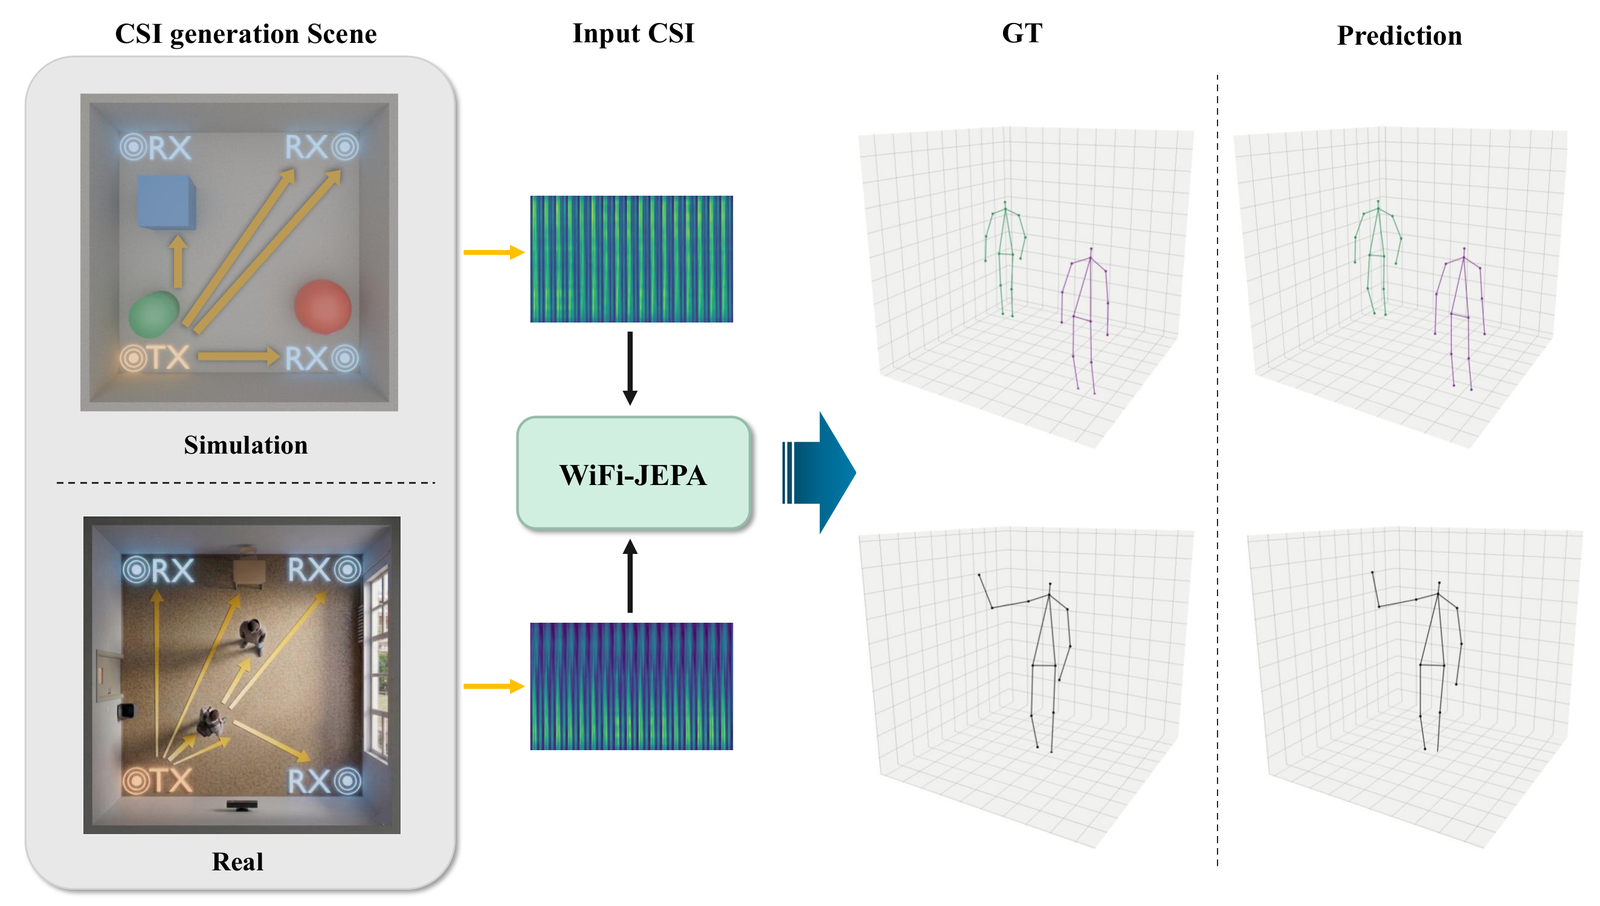
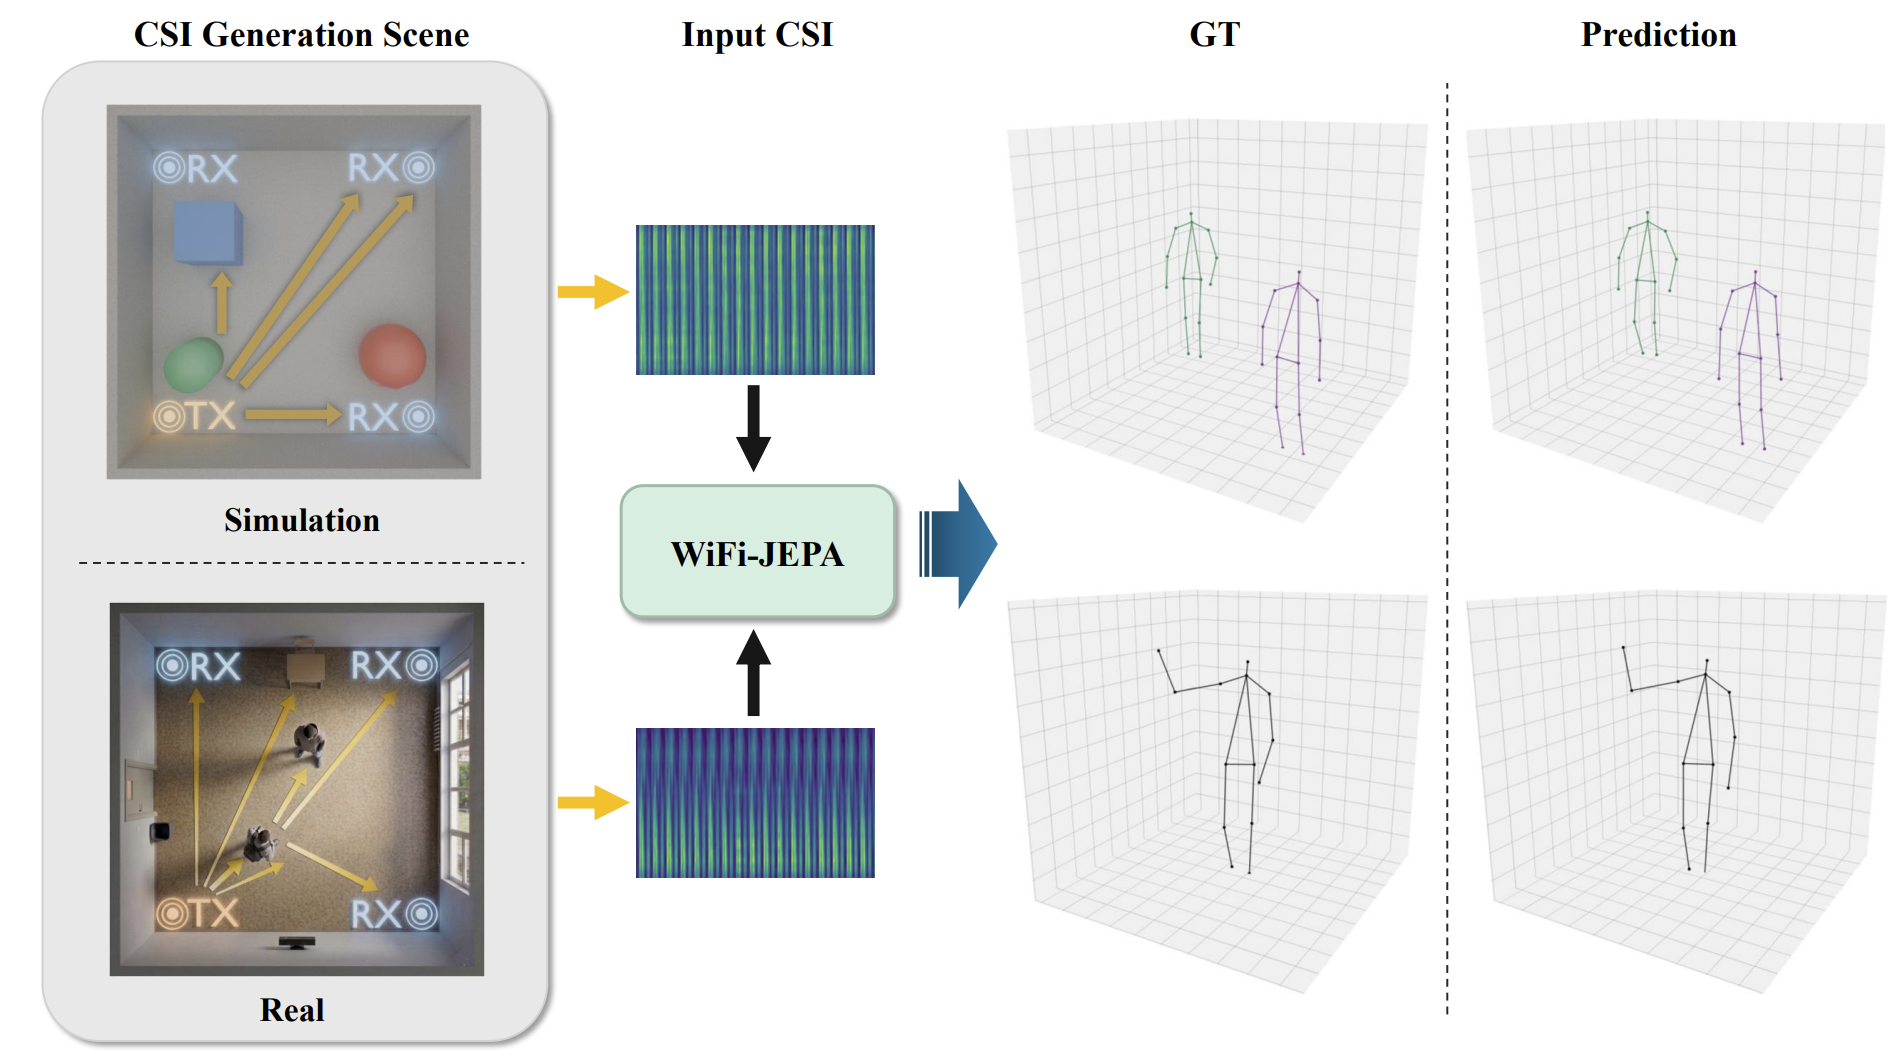
Add cross-domain generalization result to Results section
Update .gitignore to ignore pdf/zip/p3d-viz; refresh teaser overview figure.

diff --git a/index.html b/index.html
@@ -145,6 +145,17 @@
     .simobj-list { display:flex; flex-direction:column; gap:1.1rem; max-width:1000px; margin:1.25rem auto 0; }
     .simobj-item { margin:0; }
     .simobj-slot { aspect-ratio:21/9; background:#1f2733; border-radius:10px; display:flex; align-items:center; justify-content:center; color:#9aa6b6; font-size:.95rem; text-align:center; padding:1rem; box-shadow:0 1px 6px rgba(0,0,0,.12); }
+    /* Cross-domain generalization block */
+    .cross-domain { margin:2.75rem auto 0; }
+    .xd-bars { max-width:720px; margin:0 auto; }
+    .xd-row { display:flex; align-items:center; gap:.7rem; margin:.45rem 0; }
+    .xd-label { flex:0 0 132px; text-align:right; font-size:.9rem; color:#444; }
+    .xd-track { flex:1 1 auto; height:26px; background:#f1f5f9; border-radius:6px; overflow:hidden; }
+    .xd-fill { display:block; height:100%; border-radius:6px 0 0 6px; }
+    .xd-base { background:#cbd5e1; }
+    .xd-ours { background:#2563eb; }
+    .xd-val { flex:0 0 56px; font-size:.9rem; color:#333; }
+    @media (max-width:600px){ .xd-label{flex-basis:84px;font-size:.8rem;} .xd-val{flex-basis:48px;font-size:.8rem;} }
   </style>
 </head>
 <body>
@@ -346,7 +357,37 @@
     </div>
     <p class="fig-caption has-text-centered">MPJPE in mm (lower is better); PCK@20 in % (higher is better). SP: single-person, MP: multi-person.</p>
 
-    <figure class="section-figure" style="margin-top:2rem;">
+    <!-- Cross-domain generalization -->
+    <div class="cross-domain">
+      <div class="content has-text-justified">
+        <p>
+          We further evaluate <strong>cross-domain generalization</strong> under a leave-one-environment-out protocol &mdash; pre-training and fine-tuning on two of the three environments and testing on the held-out one. WiFi-JEPA <strong>nearly halves</strong> the cross-environment (office, classroom, corridor) error of the PiW3D baseline. In the chart below, MPJPE is lower-is-better and bar lengths start at zero.
+        </p>
+      </div>
+
+      <div class="stat-strip" style="margin-top:0;margin-bottom:1.6rem;">
+        <div class="stat"><div class="num">324.2&nbsp;mm</div><div class="lbl">WiFi-JEPA mean</div></div>
+        <div class="stat"><div class="num">626.4&nbsp;mm</div><div class="lbl">PiW3D mean</div></div>
+        <div class="stat"><div class="num">&minus;48.2%</div><div class="lbl">cross-env error</div></div>
+      </div>
+
+      <div class="xd-bars">
+        <div class="xd-row">
+          <span class="xd-label">PiW3D (mean)</span>
+          <span class="xd-track"><span class="xd-fill xd-base" style="width:94.9%;"></span></span>
+          <span class="xd-val">626.4</span>
+        </div>
+        <div class="xd-row">
+          <span class="xd-label"><strong>WiFi-JEPA (mean)</strong></span>
+          <span class="xd-track"><span class="xd-fill xd-ours" style="width:49.1%;"></span></span>
+          <span class="xd-val"><strong>324.2</strong></span>
+        </div>
+      </div>
+
+    </div>
+    <!-- End cross-domain -->
+
+    <figure class="section-figure" style="margin-top:2.5rem;">
       <img src="static/images/figures/qualitative.png" alt="Qualitative 3D pose comparison: baseline vs WiFi-JEPA">
     </figure>
     <p class="fig-caption has-text-centered">